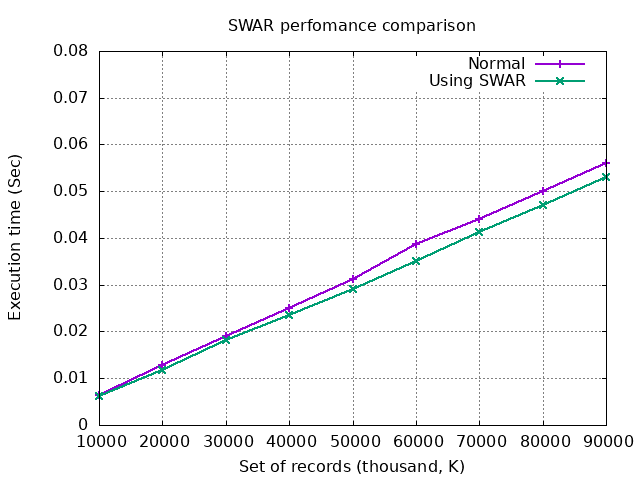
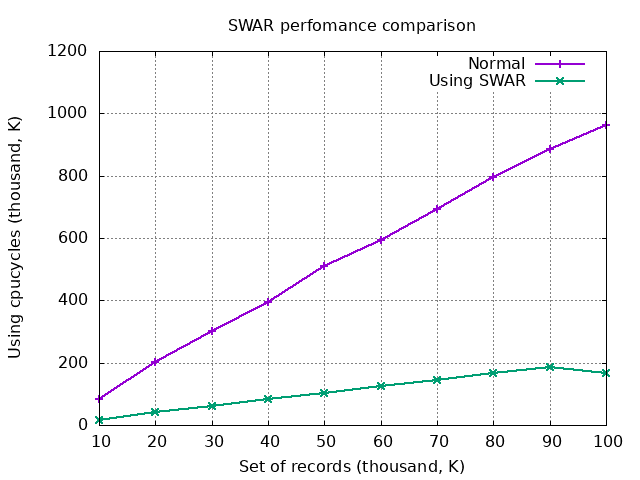
Modify quiz2/problem/performance

diff --git a/quiz2/problem3/performance.c b/quiz2/problem3/performance.c
@@ -4,10 +4,15 @@
 #include <time.h>
 #include <string.h>
 #include <stdio.h>
+#include "cpucycles.h"
 
 #define NUM 100
-#define CHUNK_SIZE 100000
 
+#ifdef CYCLE
+#define CHUNK_SIZE CYCLE
+#else /* DEBUG */
+#define CHUNK_SIZE 80000
+#endif /* DEBUG */
 
 
 size_t count_utf8(const char *buf, size_t len)
@@ -34,7 +39,7 @@ void random_string(char *s)
 {
     for (size_t i = 0; i < CHUNK_SIZE - 1; i++) {
         int x = rand();
-        s[i] = x % 127 + 1;
+        s[i] = x /*% 127 + 1*/;
     }
     s[CHUNK_SIZE - 1] = '\0';
 }
@@ -64,13 +69,21 @@ int main(int argc, char **argv)
 {
     srand( time(NULL) );
     char *s = malloc(sizeof(char) * CHUNK_SIZE);
-    for(int i = 0; i < NUM; ++i){
-        random_string(s);
-        // count_utf8(s, CHUNK_SIZE);
-        swar_count_utf8(s, CHUNK_SIZE);
-    }
+    random_string(s);
+    uint64_t normal_ticks[2], swar_ticks[2];
+    size_t count0, count1;
+    normal_ticks[0] = cpucycles();
+    count0 = count_utf8(s, CHUNK_SIZE);
+    normal_ticks[1] = cpucycles();
 
+    swar_ticks[0] = cpucycles();
+    count1 = swar_count_utf8(s, CHUNK_SIZE);
+    swar_ticks[1] = cpucycles();
+    
+    
+    printf("\n\nNormal\t method: %ld\nCounts of UTF-8 : %ld\n\n", normal_ticks[1] - normal_ticks[0], count0);
+    printf("SWAR\t method: %ld\nCounts of UTF-8 : %ld\n", swar_ticks[1] - swar_ticks[0], count1);
     free(s);
-    printf("Finish\n");
+    printf("\n\nDone !\n");
     return 0;
 }

diff --git a/quiz2/problem3/swar_count_utf8.c b/quiz2/problem3/swar_count_utf8.c
@@ -21,10 +21,7 @@ size_t count_utf8(const char *buf, size_t len)
 size_t swar_count_utf8(const char *buf, size_t len)
 {
     const uint64_t *qword = (const uint64_t *) buf;
-    printf("qword : %ld\n", qword);
-    printf("len : %ld\n", len);
     const uint64_t *end = qword + (len >> 3);
-    printf("end : %ld\n", end);
 
     size_t count = 0;
     for (; qword != end; qword++) {
